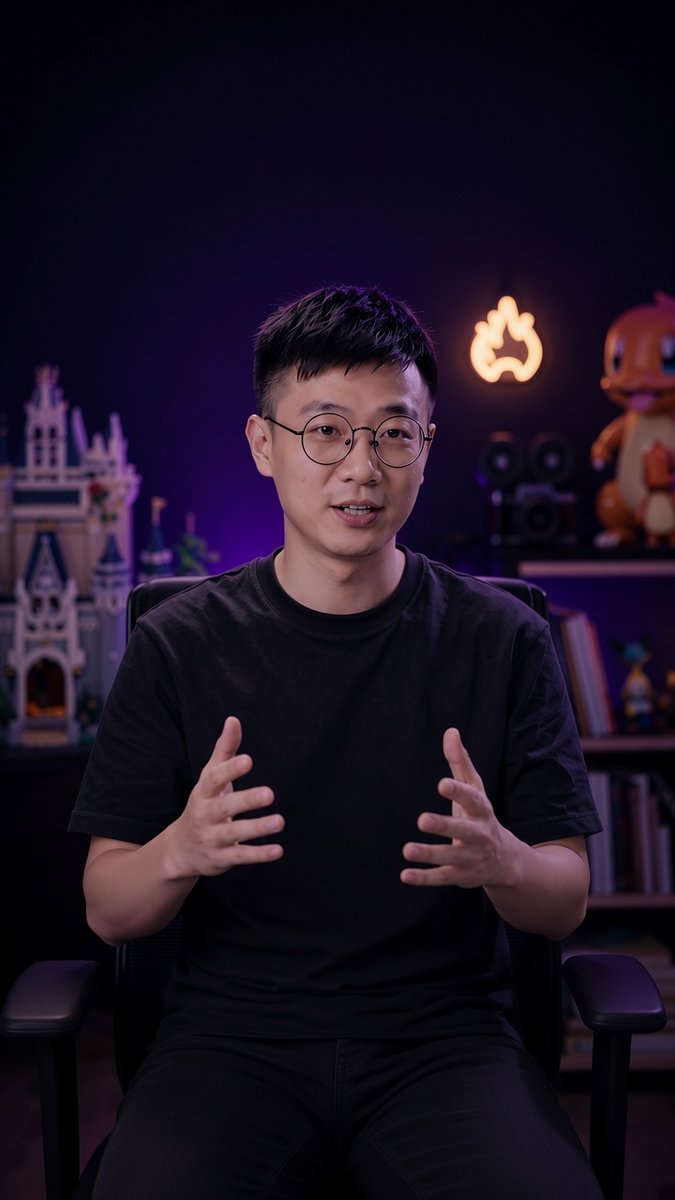
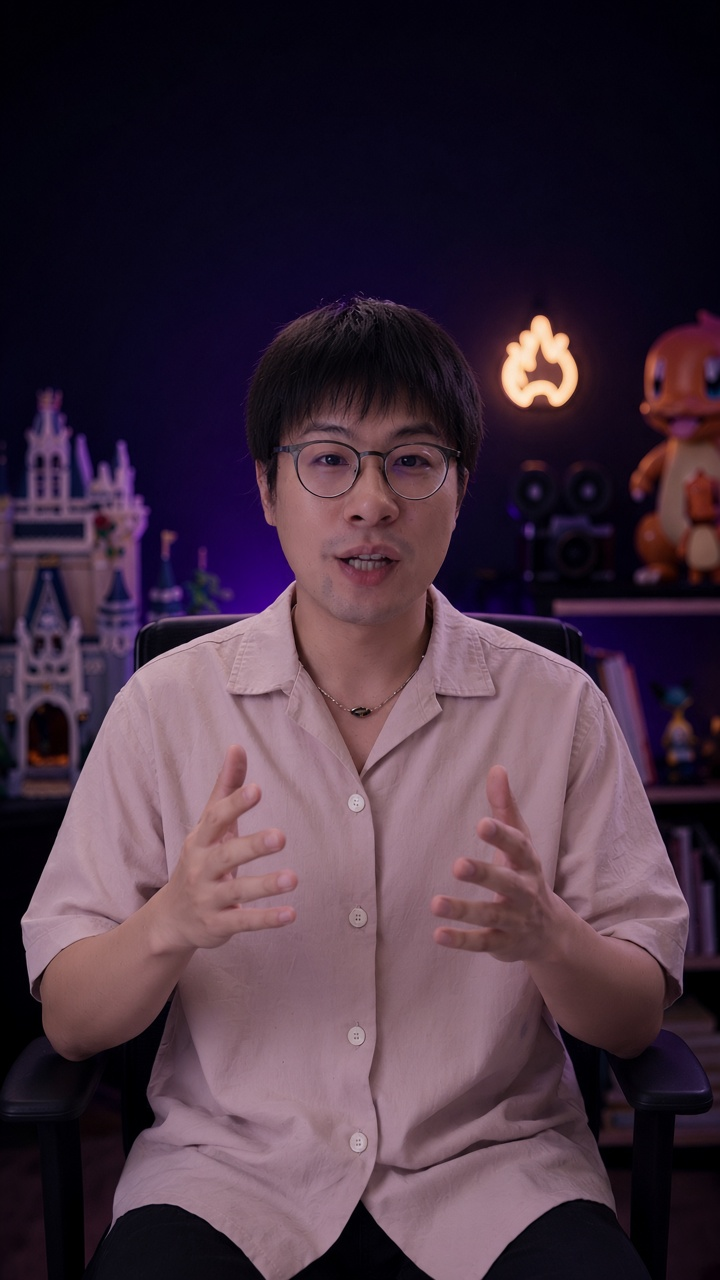
换成张秋之本人形象

diff --git a/index.html b/index.html
@@ -168,7 +168,7 @@ ol.lg .hb{color:var(--mute)}
     <span>画幅 <b>3:4 / 9:16 竖屏 + 16:9 横屏</b></span>
   </div>
   <figure class="hero-img">
-    <img loading="lazy" decoding="async" src="img/ai_h_V8.jpg" alt="改造后横屏口播画面，AI效果示意" data-full="img/ai_h_V8.jpg">
+    <img loading="lazy" decoding="async" src="img/ai_h_V8.jpg?v=9" alt="改造后横屏口播画面，AI效果示意" data-full="img/ai_h_V8.jpg?v=9">
     <span class="tag ai">AI 效果示意 · 16:9 主机位</span>
     <figcaption>人物为 AI 生成的示意，非博主本人；左侧城堡按他现有的乐高迪士尼城堡重做：宽底座、多座塔楼层层收高（实物见“先研究博主”中的原图局部）。布置以 3D 模型和平面图为准。</figcaption>
   </figure>
@@ -265,7 +265,7 @@ ol.lg .hb{color:var(--mute)}
   <div class="grid3">
     <figure><img loading="lazy" decoding="async" src="img/ref_hubo2.jpg" alt="胡泊"><figcaption>胡泊 Hubo</figcaption></figure>
     <figure><img loading="lazy" decoding="async" src="img/ref_qiuzhi.jpg" alt="秋芝2046"><figcaption>秋芝2046</figcaption></figure>
-    <figure><img loading="lazy" decoding="async" src="img/ai_h_V8.jpg" alt="本方案"><figcaption><span class="tag ai">本方案 · AI 效果示意</span></figcaption></figure>
+    <figure><img loading="lazy" decoding="async" src="img/ai_h_V8.jpg?v=9" alt="本方案"><figcaption><span class="tag ai">本方案 · AI 效果示意</span></figcaption></figure>
   </div>
   <p class="note" style="margin:16px 0 10px">每张卡：对标做法 <span style="color:var(--ember)">→</span> 本方案</p>
   <div class="icards">
@@ -376,7 +376,7 @@ ol.lg .hb{color:var(--mute)}
     </tbody>
   </table></div>
 
-  <figure class="tall" style="margin-top:20px"><img loading="lazy" decoding="async" src="img/ai_v_V8.jpg" alt="竖屏9比16 口播画面 上半身到腰 AI效果示意"><figcaption><span class="tag ai">AI 效果示意 · 9:16 竖屏</span> 上半身到腰、手势入画</figcaption></figure>
+  <figure class="tall" style="margin-top:20px"><img loading="lazy" decoding="async" src="img/ai_v_V8.jpg?v=9" alt="竖屏9比16 口播画面 上半身到腰 AI效果示意"><figcaption><span class="tag ai">AI 效果示意 · 9:16 竖屏</span> 上半身到腰、手势入画</figcaption></figure>
   <div class="grid2" style="margin-top:20px">
       <figure><img loading="lazy" decoding="async" src="img/ai_cam_V8.jpg" alt="横屏机位 AI效果示意"><figcaption><span class="tag ai">AI 效果示意 · 16:9 机位画面</span> 胸口以上近景，桌子在画外；左侧城堡、右侧展示柜，灯牌在头部右侧、与头顶齐平。</figcaption></figure>
       <figure><div class="mk"><img loading="lazy" decoding="async" src="img/ai_bts_V8.jpg" alt="幕后 AI效果示意，带灯位编号"><i style="left:57%;top:58%;--c:#ece6dc">1</i><i style="left:23%;top:79%;--c:#4de0c0">2</i><i style="left:24%;top:30%;--c:#ffd166">3</i><i style="left:57%;top:5%;--c:#6ec6ff">4</i><i style="left:77%;top:69%;--c:#ff9ecb">5</i><i style="left:80%;top:38%;--c:#ff8a3d">6</i><i style="left:46%;top:43%;--c:#ff8a3d">7</i><i style="left:70%;top:44%;--c:#9b8cff">8</i><i style="left:47%;top:59%;--c:#ff5d5d">9</i><i style="left:68%;top:26%;--c:#ff8a3d">10</i></div><figcaption><span class="tag ai">AI 效果示意 · 幕后</span> 编号同灯位图；4 号顶光在画面上方外。</figcaption></figure>
@@ -606,7 +606,7 @@ const STEPS=[
   ["4 · 问题与修改：人物","方块人物被误读成玻璃罩和镜子。改：白模做成人形，强度 0.42。","img/ai_fail.jpg"],
   ["5 · 问题与修改：光","太亮像白天家居照。改：压暗背景、柜后蓝紫光、主光加网格、换深色上衣。","img/ai_v1_bright.jpg"],
   ["6 · 问题与修改：布局","衣柜在相机后要挪灯。改：桌前口播，衣柜移书桌墙，挂毛毡板，辅光换真灯。","img/room_V8_ai.jpg"],
-  ["7 · 定稿","胸口以上、头顶留约 7%；城堡按他的乐高迪士尼城堡重做，小火龙、灯牌降到头部高度。","img/ai_h_V8.jpg"]
+  ["7 · 定稿","胸口以上、头顶留约 7%；城堡按他的乐高迪士尼城堡重做，小火龙、灯牌降到头部高度。","img/ai_h_V8.jpg?v=9"]
 ];
 document.getElementById('steps').innerHTML=STEPS.map(s=>`<div class="card"><img loading="lazy" decoding="async" src="${s[2]}" alt="${s[0]}"><h3>${s[0]}</h3><p>${s[1]}</p></div>`).join('');
 
